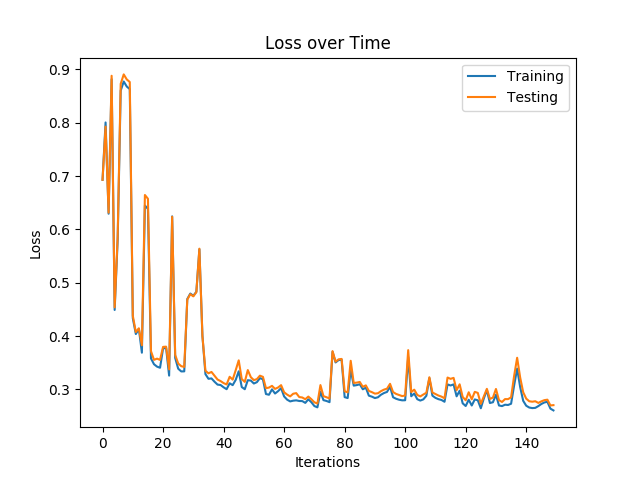
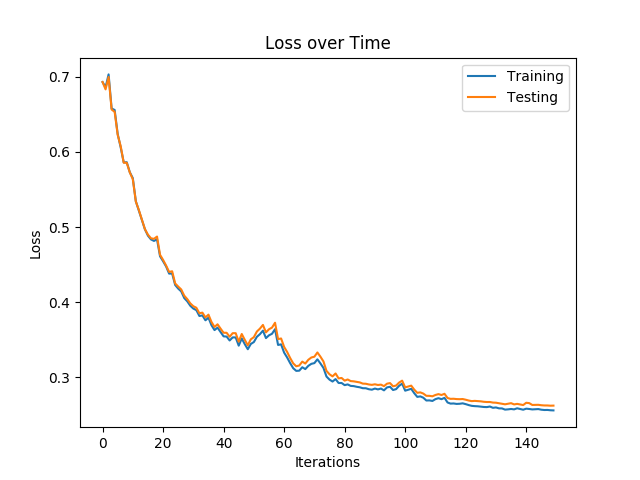
best c graphs

diff --git a/hw2-code/src/constants.py b/hw2-code/src/constants.py
@@ -20,7 +20,7 @@ input_variables = ["agePct12t29", "pctWSocSec",
 one_to_digit = { -1 : 2, +1 : 7}
 digit_to_one = { 2 : -1, 7 : +1}
 
-mnist_step_size = 1E-1
+mnist_step_size = 1E-2
 cutoff = 1E-2
 
 stoch_iter_count = 150
